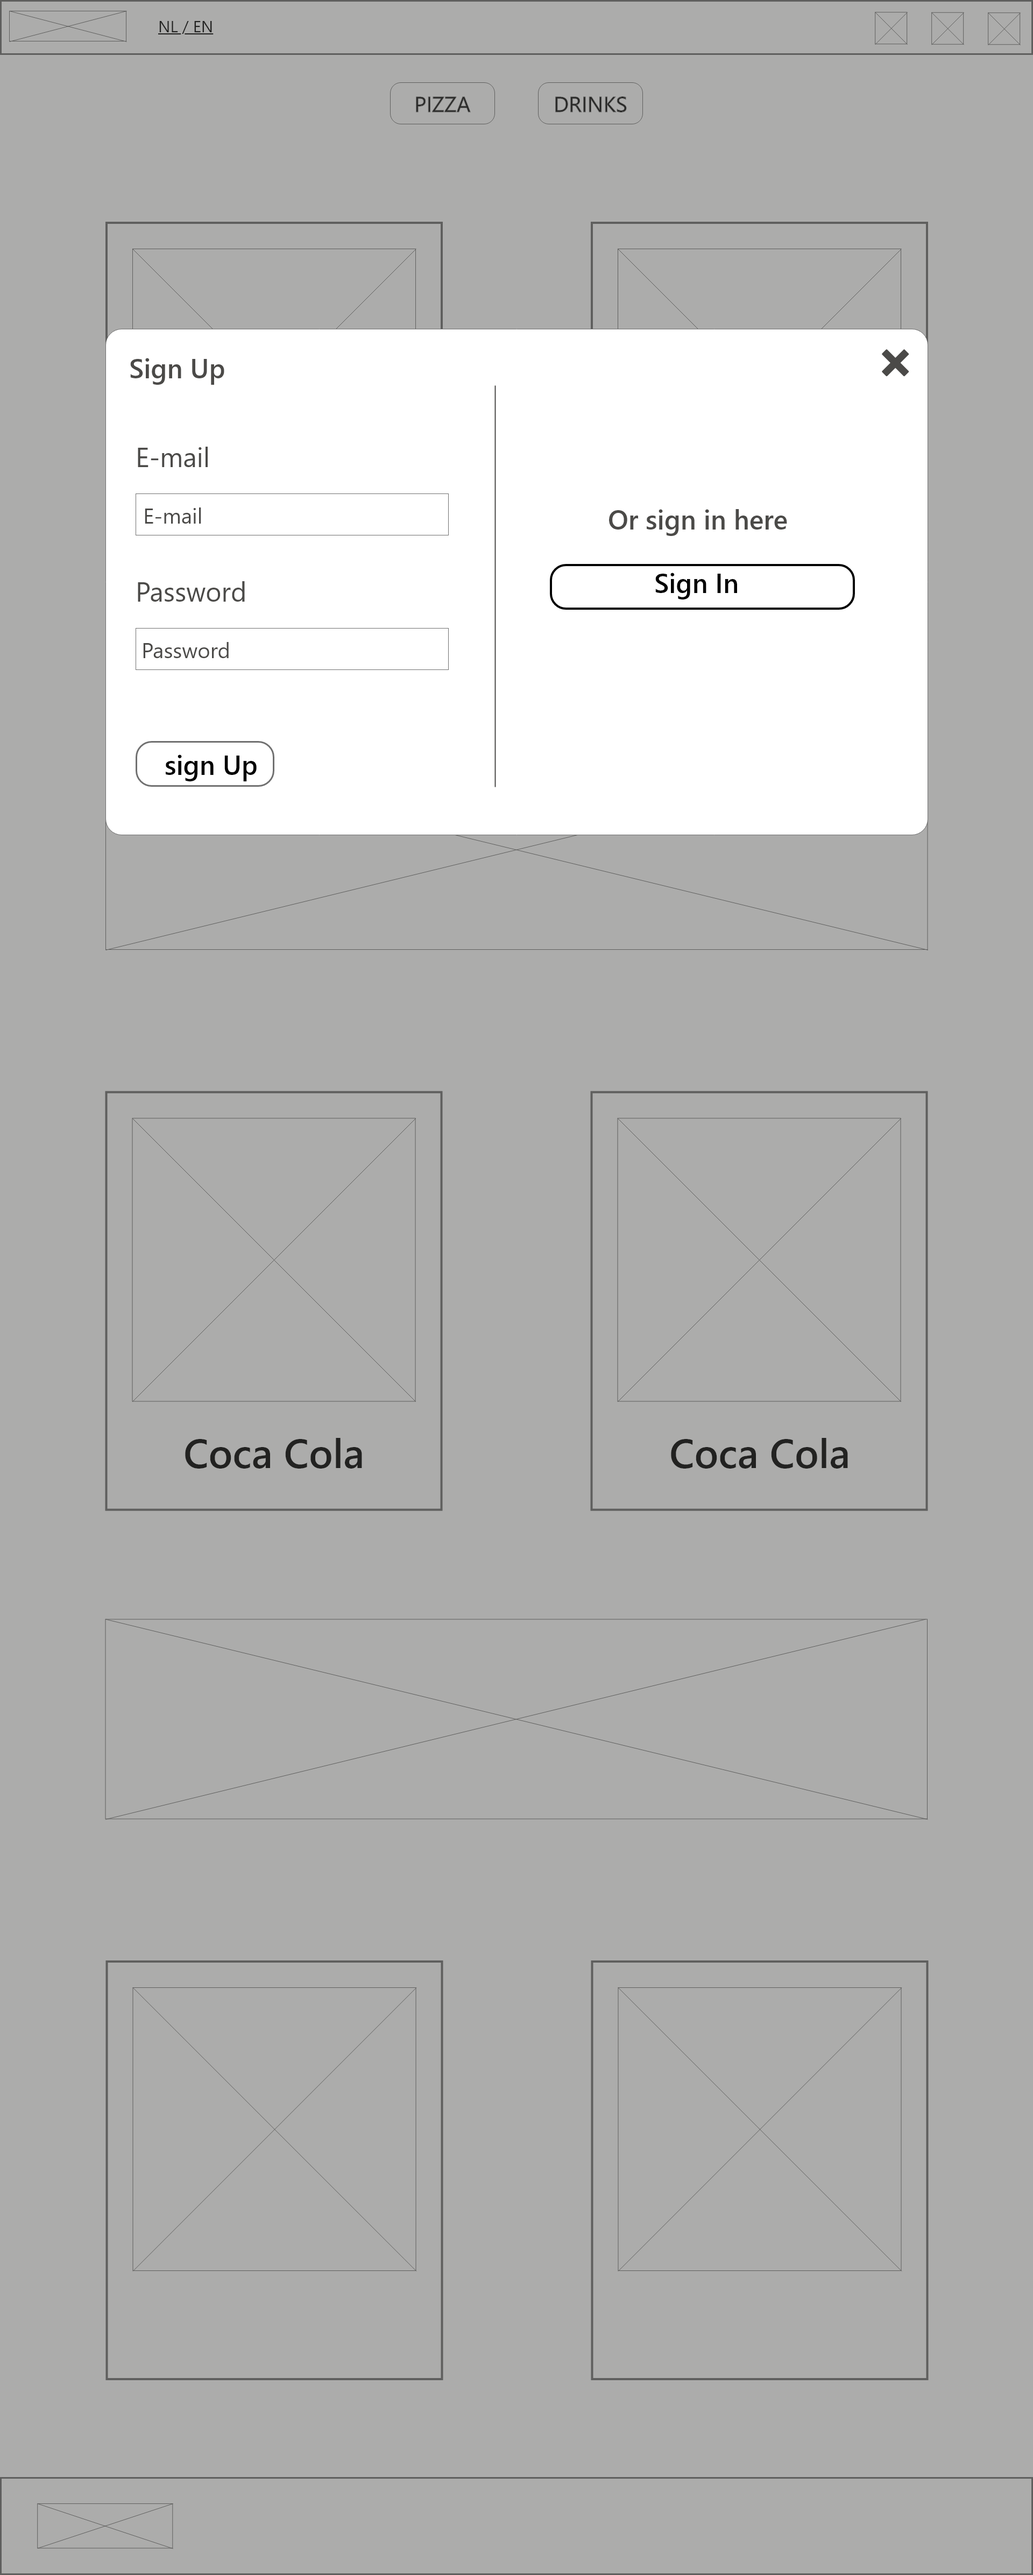
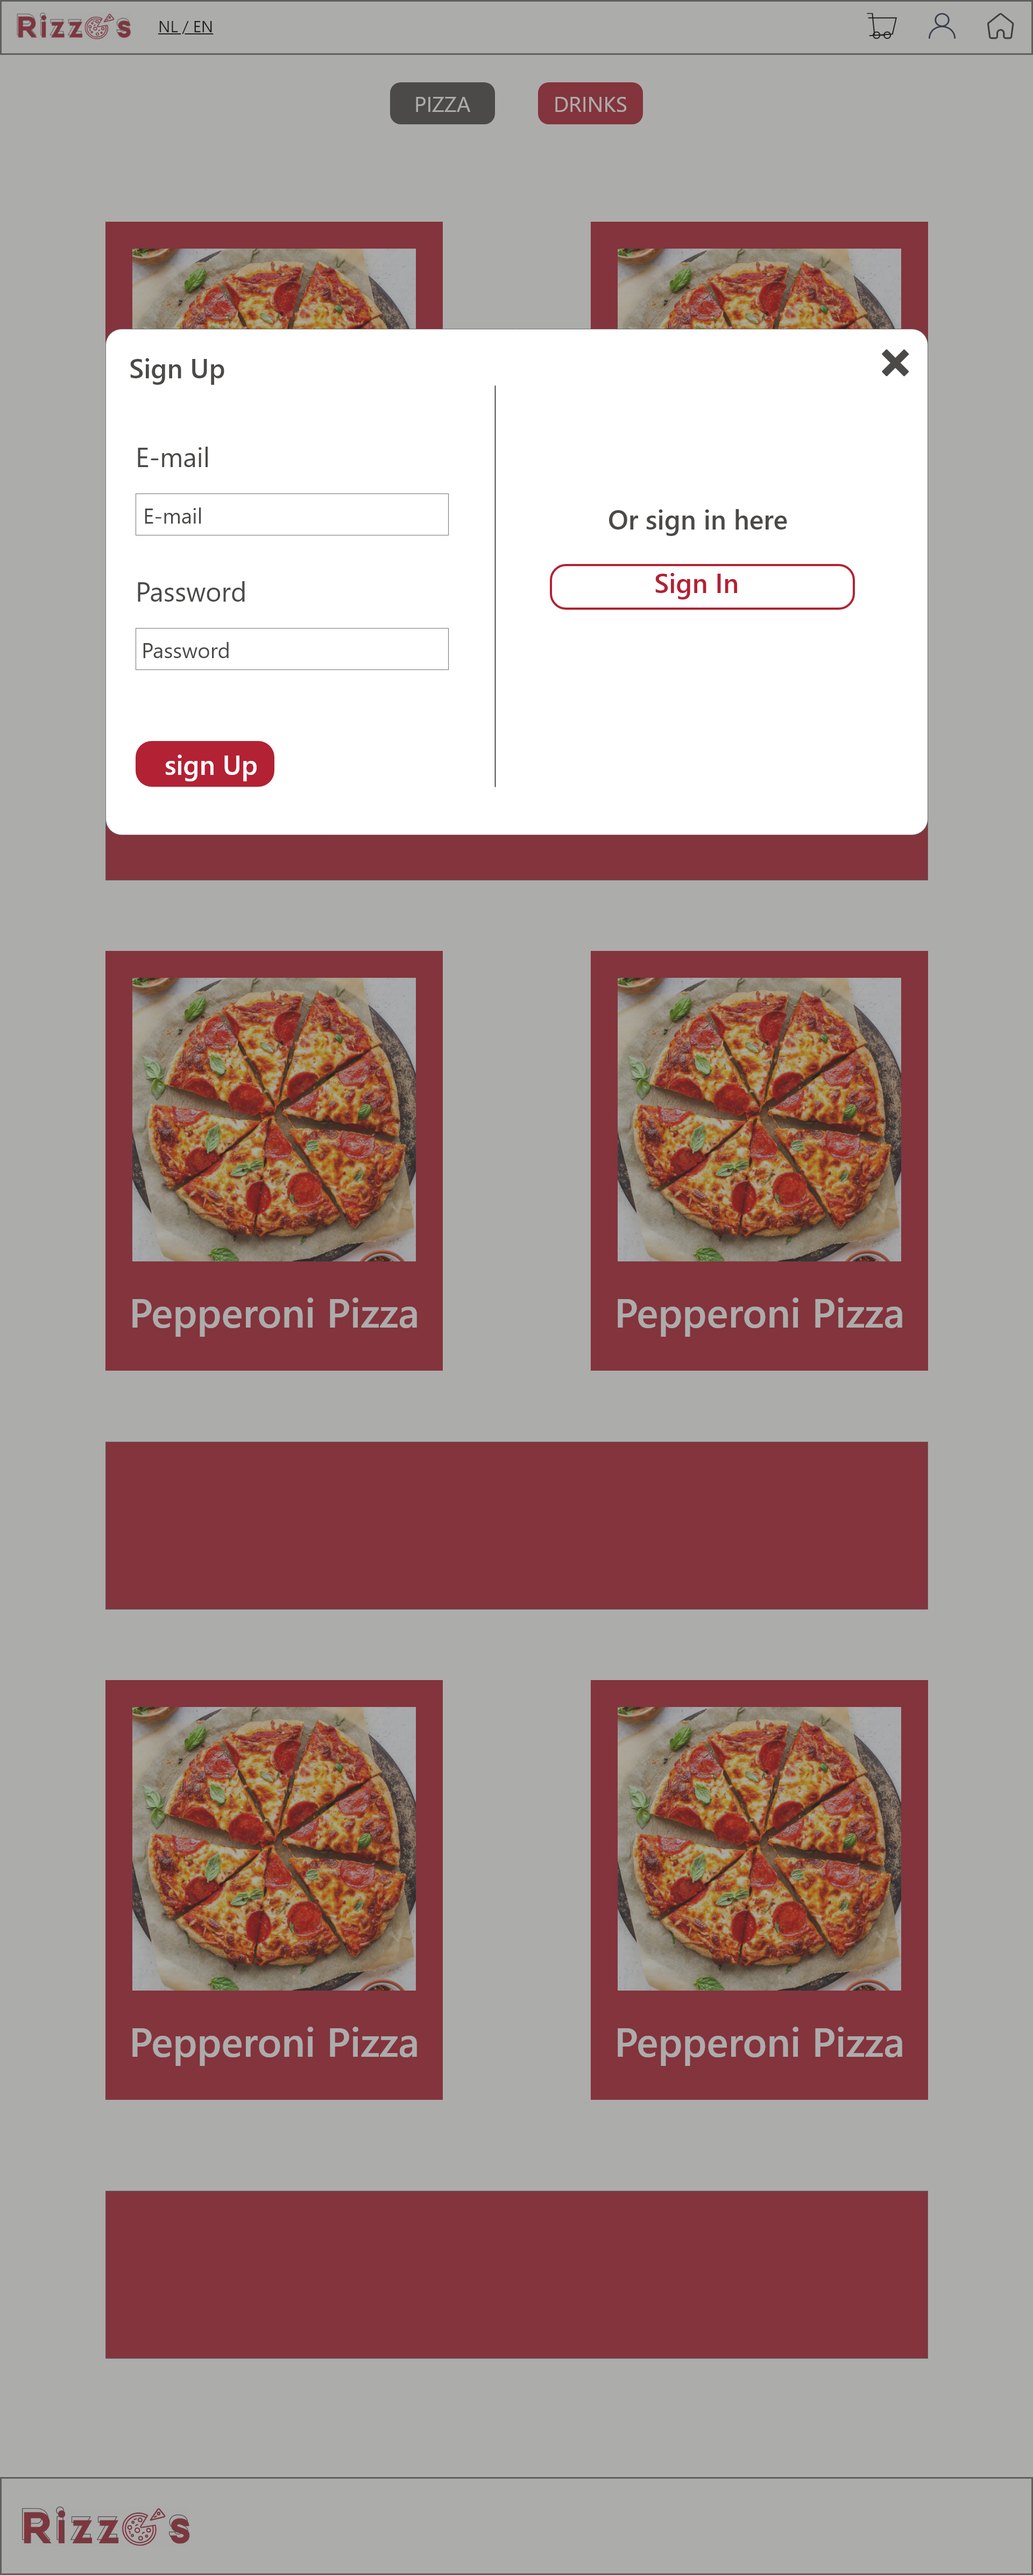
pizza shop page bijna compleet

diff --git a/styles/pizza_shop_style.css b/styles/pizza_shop_style.css
@@ -1,0 +1,53 @@
+/* Contents of pizza_shop_style.css */
+
+/* Custom checkbox styles */
+input[type="checkbox"] {
+    /* Hide the default checkbox */
+    appearance: none;
+    -webkit-appearance: none;
+    -moz-appearance: none;
+    /* Set the checkbox size */
+    width: 16px;
+    height: 16px;
+    /* Set the checkbox background color when unchecked */
+    background-color: #fff;
+    /* Set the checkbox border */
+    border: 2px solid #B32134;
+    border-radius: 3px;
+    /* Position the checkbox relative to its label */
+    vertical-align: middle;
+    position: relative;
+    top: 2px;
+    margin-right: 8px; /* Add margin to create space between checkbox and text */
+  }
+  /* Checkbox styles when checked */
+  input[type="checkbox"]:checked {
+    /* Set the checkbox background color when checked */
+    background-color: #B32134;
+  }
+  
+.modal-image {
+  width: 100%;
+  height: 25vh;
+  object-fit: cover;
+  border-top-left-radius: 0.25rem;
+  border-top-right-radius: 0.25rem;
+}
+
+.modal-close {
+  color: white;
+  position: absolute;
+  top: 0;
+  right: 0;
+  font-size: 2rem;
+  cursor: pointer;
+  width: 50px;
+  height: 50px;
+  line-height: 50px;
+  text-align: center;
+  background-color: transparent;
+  border: none;
+  padding: 0;
+  margin: 0;
+  z-index: 9999;
+}

diff --git a/pizza_shop.php b/pizza_shop.php
@@ -1,0 +1,277 @@
+<!DOCTYPE html>
+<html lang="en">
+
+<head>
+  <meta charset="UTF-8">
+  <meta http-equiv="X-UA-Compatible" content="IE=edge">
+  <meta name="viewport" content="width=device-width, initial-scale=1.0">
+  <title>Rizzo's</title>
+  <link rel="stylesheet" href="https://cdn.jsdelivr.net/npm/bootstrap@4.5.3/dist/css/bootstrap.min.css"
+    integrity="sha384-TX8t27EcRE3e/ihU7zmQxVncDAy5uIKz4rEkgIXeMed4M0jlfIDPvg6uqKI2xXr2" crossorigin="anonymous">
+  <script src="https://code.jquery.com/jquery-3.5.1.slim.min.js"></script>
+  <script src="https://cdn.jsdelivr.net/npm/@popperjs/core@1.15.0/dist/umd/popper.min.js"></script>
+  <script src="https://stackpath.bootstrapcdn.com/bootstrap/4.5.0/js/bootstrap.min.js"></script>
+  <link rel="stylesheet" href="styles/pizza_shop_style.css">
+</head>
+
+<body style="text-align: center;">
+
+  <nav class="navbar navbar-expand-md navbar-light sticky-top navbar-light bg-light " style="border:3px solid #4B4A48">
+    <div class="navbar-collapse collapse w-100 order-1 order-md-0 dual-collapse2">
+      <ul class="navbar-nav mr-auto">
+        <li class="nav-item active">
+          <a class="nav-link" href="index.php"><img src="assets/logo.png" width="120" height="28"></a>
+        </li>
+      </ul>
+    </div>
+
+    <div class="navbar-collapse collapse w-100 order-3 dual-collapse2">
+      <ul class="navbar-nav ml-auto">
+        <li class="nav-item">
+          <a class="nav-link" href="#"><img src="assets/shopping.png" width="35" height="auto"></a>
+        </li>
+        <li class="nav-item">
+          <a class="nav-link" href="#"><img src="assets/user.png" width="26" height="auto"></a>
+        </li>
+        <li class="nav-item">
+          <a class="nav-link" href="index.php"><img src="assets/home.png" width="32" height="auto"></a>
+        </li>
+      </ul>
+    </div>
+  </nav>
+
+  <div style="height: 50px;"></div> <!-- Empty space with a height of 50px -->
+  <div style="display: flex; justify-content: center;">
+    <a href="pizza_shop.php" style="text-decoration: none;">
+      <button style="background-color: #4B4A48; color: white; padding: 10px 20px; border: none; cursor: pointer; border-radius: 20%; font-size: 18px; width: 100px;">Pizza</button>
+    </a>
+    <div style="width: 50px;"></div> <!-- Empty space with a width of 50px -->
+    <a href="drinks.html" style="text-decoration: none;">
+      <button style="background-color: #B32134; color: white; padding: 10px 20px; border: none; cursor: pointer; border-radius: 20%; font-size: 18px; width: 100px;">Drinks</button>
+    </a>
+  </div>
+
+  <div class="container" style="margin-top: 50px; margin-bottom: 50px;">
+    <div class="row justify-content-center">
+      <!-- Gallery item 1 -->
+      <div class="col-6 col-md-4 col-lg-4 mb-4">
+        <div class="card">
+          <img src="assets/pizzas/margherita.jpg" class="card-img-top" style="width: 100%; height: auto; border-radius: 4px;" data-toggle="modal" data-target="#margheritaModal">
+          <div class="card-body">
+            <h5 class="card-title">Pizza Margherita</h5>
+            <p class="card-text">A classic pizza topped with tomato sauce, fresh mozzarella cheese, and basil leaves.<br>(vegetarian)</p>
+          </div>
+        </div>
+      </div>
+      <!-- End Gallery item 1 -->
+
+      <!-- Gallery item 2 -->
+      <div class="col-6 col-md-4 col-lg-4 mb-4">
+        <div class="card">
+          <img src="assets/pizzas/pepperoni.jpg" class="card-img-top" style="width: 100%; height: auto; border-radius: 4px;" data-toggle="modal" data-target="#pepperoniModal">
+          <div class="card-body">
+            <h5 class="card-title">Pizza Pepperoni</h5>
+            <p class="card-text">A flavorful pizza loaded with zesty tomato sauce, melted cheese, and savory pepperoni slices.</p>
+          </div>
+        </div>
+      </div>
+      <!-- End Gallery item 2 -->
+    </div>
+
+    <div class="row justify-content-center">
+      <!-- Gallery item 3 -->
+      <div class="col-6 col-md-4 col-lg-4 mb-4">
+        <div class="card">
+          <img src="assets/pizzas/vegetarian.jpg" alt="" class="card-img-top" style="width: 100%; height: auto; border-radius: 4px;" data-toggle="modal" data-target="#vegetarianModal">
+          <div class="card-body">
+            <h5 class="card-title">Pizza vegetarian</h5>
+            <p class="card-text">A delicious pizza packed with an assortment of colorful vegetables, including bell peppers, onions, mushrooms, and olives.</p>
+          </div>
+        </div>
+      </div>
+      <!-- End Gallery item 3 -->
+
+      <!-- Gallery item 4 -->
+      <div class="col-6 col-md-4 col-lg-4 mb-4">
+        <div class="card">
+          <img src="assets/pizzas/hawaii.jpg" alt="" class="card-img-top" style="width: 100%; height: auto; border-radius: 4px;" data-toggle="modal" data-target="#hawaiiModal">
+          <div class="card-body">
+            <h5 class="card-title">Pizza hawaii</h5>
+            <p class="card-text">An unconventional combination of sweet pineapple, tangy ham, and melted cheese on a pizza crust, offering a unique taste experience</p>
+          </div>
+        </div>
+      </div>
+      <!-- End Gallery item 4 -->
+    </div>
+
+    <div class="row justify-content-center">
+      <!-- Gallery item 5 -->
+      <div class="col-6 col-md-4 col-lg-4 mb-4">
+        <div class="card">
+          <img src="assets/pizzas/meat_lovers.jpg" alt="" class="card-img-top" style="width: 100%; height: auto; border-radius: 4px;" data-toggle="modal" data-target="#meatLoversModal">
+          <div class="card-body">
+            <h5 class="card-title">Pizza meat lover's</h5>
+            <p class="card-text">A carnivore's delight featuring a variety of mouthwatering meats such as pepperoni, sausage, bacon, and ground beef, smothered in cheese.</p>
+          </div>
+        </div>
+      </div>
+      <!-- End Gallery item 5 -->
+
+      <!-- Gallery item 6 -->
+      <div class="col-6 col-md-4 col-lg-4 mb-4">
+        <div class="card">
+          <img src="assets/pizzas/mushrooms.jpg" alt="" class="card-img-top" style="width: 100%; height: auto; border-radius: 4px;" data-toggle="modal" data-target="#mushroomsModal">
+          <div class="card-body">
+            <h5 class="card-title">Pizza Mushrooms</h5>
+            <p class="card-text">A delightful pizza adorned with earthy and savory mushrooms, complemented by a blend of cheese and herbs.<br>(vegetarian)</p>
+          </div>
+        </div>
+      </div>
+      <!-- End Gallery item 6 -->
+    </div>
+  </div>
+
+<!-- Modal for Pizza Margherita -->
+<div class="modal fade" id="margheritaModal" tabindex="-1" role="dialog" aria-labelledby="margheritaModalLabel"
+    aria-hidden="true">
+    <div class="modal-dialog modal-dialog-centered" role="document">
+      <div class="modal-content">
+        <div class="modal-body p-0">
+        <img src="assets/pizzas/margherita.jpg" class="modal-image">
+        <span class="modal-close" data-dismiss="modal" aria-label="Close">&times;</span>
+          <div class="p-3">
+            <h5 class="modal-title" id="margheritaModalLabel">Pizza Margherita</h5>
+            <p>A classic pizza topped with tomato sauce, fresh mozzarella cheese, and basil leaves. (vegetarian)</p>
+            <div class="topping-option">
+              <label class="topping-name">
+                <input type="checkbox" name="topping1" value="Topping 1">
+                Topping 1
+              </label>
+              <span class="topping-price">€1,00</span>
+            </div>
+            <div class="topping-option">
+              <label class="topping-name">
+                <input type="checkbox" name="topping2" value="Topping 2">
+                Topping 2
+              </label>
+              <span class="topping-price">€1,00</span>
+            </div>
+            <div class="topping-option">
+              <label class="topping-name">
+                <input type="checkbox" name="topping3" value="Topping 3">
+                Topping 3
+              </label>
+              <span class="topping-price">€1,00</span>
+            </div>
+            <div class="topping-option">
+              <label class="topping-name">
+                <input type="checkbox" name="topping4" value="Topping 4">
+                Topping 4
+              </label>
+              <span class="topping-price">€1,00</span>
+            </div>
+          </div>
+        </div>
+      </div>
+    </div>
+  </div>
+<!-- End Modal for Pizza Margherita -->
+
+
+  <!-- Modal for Pizza Pepperoni -->
+  <div class="modal fade" id="pepperoniModal" tabindex="-1" role="dialog" aria-labelledby="pepperoniModalLabel"
+    aria-hidden="true">
+    <div class="modal-dialog modal-dialog-centered" role="document">
+      <div class="modal-content">
+        <div class="modal-body p-0">
+          <span class="modal-close" data-dismiss="modal" aria-label="Close">&times;</span>
+          <img src="assets/pizzas/pepperoni.jpg" class="modal-image">
+          <div class="p-3">
+            <h5 class="modal-title" id="pepperoniModalLabel">Pizza Pepperoni</h5>
+          <p>A flavorful pizza loaded with zesty tomato sauce, melted cheese, and savory pepperoni slices.</p>
+          </div>
+        </div>
+      </div>
+    </div>
+  </div>
+  <!-- End Modal for Pizza Pepperoni -->
+
+  <!-- Modal for Pizza Vegetarian -->
+  <div class="modal fade" id="vegetarianModal" tabindex="-1" role="dialog" aria-labelledby="vegetarianModalLabel"
+    aria-hidden="true">
+    <div class="modal-dialog modal-dialog-centered" role="document">
+      <div class="modal-content">
+        <div class="modal-body p-0">
+          <span class="modal-close" data-dismiss="modal" aria-label="Close">&times;</span>
+          <img src="assets/pizzas/vegetarian.jpg" class="modal-image">
+          <div class="p-3">
+            <h5 class="modal-title" id="vegetarianModalLabel">Pizza Vegetarian</h5>
+          <p>A delicious pizza packed with an assortment of colorful vegetables, including bell peppers, onions, mushrooms, and olives.</p>
+          </div>
+        </div>
+      </div>
+    </div>
+  </div>
+  <!-- End Modal for Pizza Vegetarian -->
+
+  <!-- Modal for Pizza Hawaii -->
+  <div class="modal fade" id="hawaiiModal" tabindex="-1" role="dialog" aria-labelledby="hawaiiModalLabel"
+    aria-hidden="true">
+    <div class="modal-dialog modal-dialog-centered" role="document">
+      <div class="modal-content">
+        <div class="modal-body p-0">
+          <span class="modal-close" data-dismiss="modal" aria-label="Close">&times;</span>
+          <img src="assets/pizzas/hawaii.jpg" class="modal-image">
+          <div class="p-3">
+            <h5 class="modal-title" id="hawaiiModalLabel">Pizza Hawaii</h5>
+          <p>An unconventional combination of sweet pineapple, tangy ham, and melted cheese on a pizza crust, offering a unique taste experience.</p>
+          </div>
+        </div>
+      </div>
+    </div>
+  </div>
+  <!-- End Modal for Pizza Hawaii -->
+
+  <!-- Modal for Pizza Meat Lover's -->
+  <div class="modal fade" id="meatLoversModal" tabindex="-1" role="dialog" aria-labelledby="meatLoversModalLabel"
+    aria-hidden="true">
+    <div class="modal-dialog modal-dialog-centered" role="document">
+      <div class="modal-content">
+        <div class="modal-body p-0">
+          <span class="modal-close" data-dismiss="modal" aria-label="Close">&times;</span>
+          <img src="assets/pizzas/meat_lovers.jpg" class="modal-image">
+          <div class="p-3">
+            <h5 class="modal-title" id="meatLoversModalLabel">Pizza Meat Lover's</h5>
+          <p>A carnivore's delight featuring a variety of mouthwatering meats such as pepperoni, sausage, bacon, and ground beef, smothered in cheese.</p>
+          </div>
+        </div>
+      </div>
+    </div>
+  </div>
+  <!-- End Modal for Pizza Meat Lover's -->
+
+  <!-- Modal for Pizza Mushrooms -->
+  <div class="modal fade" id="mushroomsModal" tabindex="-1" role="dialog" aria-labelledby="mushroomsModalLabel"
+    aria-hidden="true">
+    <div class="modal-dialog modal-dialog-centered" role="document">
+      <div class="modal-content">
+        <div class="modal-body p-0">
+          <span class="modal-close" data-dismiss="modal" aria-label="Close">&times;</span>
+          <img src="assets/pizzas/mushrooms.jpg" class="modal-image">
+          <div class="p-3">
+            <h5 class="modal-title" id="mushroomsModalLabel">Pizza Mushrooms</h5>
+          <p>A delightful pizza adorned with earthy and savory mushrooms, complemented by a blend of cheese and herbs. (vegetarian)</p>
+          </div>
+        </div>
+      </div>
+    </div>
+  </div>
+  <!-- End Modal for Pizza Mushrooms -->
+
+</body>
+
+<footer style="text-align: left; padding: 10px; background-color: #ffffff; border: 3px solid #4B4A48; margin-top:50px;">
+    <img src="assets/logo.png" alt="Logo" width="120" height="28" style="margin-right: 10px;">
+  </footer>
+
+</html>

diff --git a/index.php b/index.php
@@ -1,0 +1,63 @@
+<!DOCTYPE html>
+<html lang="en">
+<head>
+    <meta charset="UTF-8">
+    <meta http-equiv="X-UA-Compatible" content="IE=edge">
+    <meta name="viewport" content="width=device-width, initial-scale=1.0">
+    <title>Rizzo's</title>
+    <link rel="stylesheet" href="https://cdn.jsdelivr.net/npm/bootstrap@4.5.3/dist/css/bootstrap.min.css" integrity="sha384-TX8t27EcRE3e/ihU7zmQxVncDAy5uIKz4rEkgIXeMed4M0jlfIDPvg6uqKI2xXr2" crossorigin="anonymous">
+    <script src="https://cdn.jsdelivr.net/npm/bootstrap@5.3.0/dist/js/bootstrap.bundle.min.js" integrity="sha384-geWF76RCwLtnZ8qwWowPQNguL3RmwHVBC9FhGdlKrxdiJJigb/j/68SIy3Te4Bkz" crossorigin="anonymous"></script>
+</head>
+<body style="text-align: center;">
+    
+<nav class="navbar navbar-expand-md navbar-light sticky-top navbar-light bg-light " style="border:3px solid #4B4A48">
+    <div class="navbar-collapse collapse w-100 order-1 order-md-0 dual-collapse2">
+        <ul class="navbar-nav mr-auto">
+            <li class="nav-item active">
+                <a class="nav-link" href="index.php"><img src="assets/logo.png" width="120" height="28""></a>
+            </li>
+        </ul>
+    </div>
+
+    <div class="navbar-collapse collapse w-100 order-3 dual-collapse2">
+        <ul class="navbar-nav ml-auto">
+            <li class="nav-item">
+                <a class="nav-link" href="#"><img src="assets/shopping.png" width="35" height="auto"></a>
+            </li>
+            <li class="nav-item">
+                <a class="nav-link" href="#"><img src="assets/user.png" width="26" height="auto"></a>
+            </li>
+            <li class="nav-item">
+                <a class="nav-link" href="index.php""><img src="assets/home.png" width="32" height="auto"></a>
+            </li>
+        </ul>
+    </div>
+</nav>
+
+<div style="height: 50px;"></div> <!-- Empty space with a height of 50px -->
+  <div style="display: flex; justify-content: center;">
+    <a href="pizza_shop.php" style="text-decoration: none;">
+      <button style="background-color: #B32134; color: white; padding: 10px 20px; border: none; cursor: pointer; border-radius: 20%; font-size: 18px; width: 100px;">Pizza</button>
+    </a>
+    <div style="width: 50px;"></div> <!-- Empty space with a width of 50px -->
+    <a href="drinks.html" style="text-decoration: none;">
+      <button style="background-color: #B32134; color: white; padding: 10px 20px; border: none; cursor: pointer; border-radius: 20%; font-size: 18px; width: 100px;">Drinks</button>
+    </a>
+  </div>
+
+<a href="pizza_shop.php" style="display: block; margin: 50px auto;">
+    <img src="assets/aanbiedingen/aanbieding1.jpg" style="margin: 0 auto;" />
+  </a>
+  <a href="pizza_shop.php" style="display: block; margin-bottom: 50px;">
+    <img src="assets/aanbiedingen/aanbieding2.jpg" style="margin: 0 auto;" />
+  </a>
+  <a href="https://example.com/link3" style="display: block;">
+    <img src="assets/aanbiedingen/aanbieding3.jpg" style="margin: 0 auto;" />
+  </a>
+</body>
+
+  <footer style="text-align: left; padding: 10px; background-color: #ffffff; border: 3px solid #4B4A48; margin-top:50px;">
+    <img src="assets/logo.png" alt="Logo" width="120" height="28" style="margin-right: 10px;">
+  </footer>
+
+</html>
